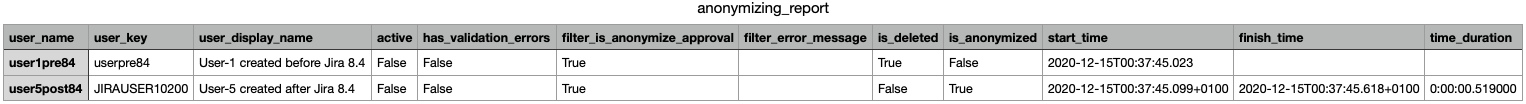
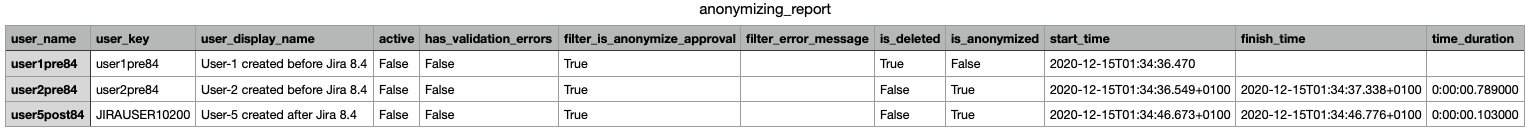
dev

diff --git a/doc/manual.md b/doc/manual.md
@@ -134,7 +134,7 @@ the filter had found any criteria not to anonymize a user, it would have given a
         "users": [
             {
                 "user_name": "user1pre84",
-                "user_key": "userpre84",
+                "user_key": "user1pre84",
                 "user_display_name": "User-1 created before Jira 8.4",
                 "active": false,
                 "has_validation_errors": false,
@@ -163,7 +163,7 @@ the filter had found any criteria not to anonymize a user, it would have given a
         ]
     }
 
-Furthermore the `anonymization_report.csv` has been created and looks like in the following
+Furthermore, the `anonymization_report.csv` has been created and looks like in the following
 screenshot:
 
 ![](images/manual/validation_succeeded_1.png)
@@ -215,7 +215,7 @@ The report is:
         "users": [
             {
                 "user_name": "user1pre84",
-                "user_key": "userpre84",
+                "user_key": "user1pre84",
                 "user_display_name": "User-1 created before Jira 8.4",
                 "active": true,
                 "has_validation_errors": false,
@@ -268,7 +268,7 @@ user1pre84:
 
 The step "Query user-data from Jira" queries the user's data from 
 `GET /rest/api/2/user?username=user1pre84`. It returns HTTP status-code `200 OK`, and in the 
-repsonse there is the attribute `"active": true`. Because the filter follows the rule only to 
+repsonse there is the attribute `"active": true`. Because the filter follows the rule to only  
 pass inactive users, it sets the `"filter_is_anonymize_approval": false`.
 
 user5post84:
@@ -277,7 +277,7 @@ The step "Query user-data from Jira" queries the user's data from
 `GET /rest/api/2/user?username=user5post84`. It returns HTTP status-code `404 Not Found`,
 and in the response there is the error-message 
 `"errorMessages": ["The user named 'user5post84' does not exist"]`.
-Because the filter follows the rule only to 
+Because the filter follows the rule to only 
 pass existent users, it sets the `"filter_is_anonymize_approval": false`.
 
 user-from-ad:
@@ -360,10 +360,12 @@ The config is:
 Further we use the infile `usernames.txt` with two users:
 
     user1pre84
+    user2pre84
     user5post84
 
-Both users are existent and inactive. User `user1pre84` is no reporter in any issue, nor
-is assigned to any user-field. User `user5post84` is assignee of 1 issue. 
+All users are existent and inactive. User `user1pre84` is no reporter in any issue, nor
+is assigned to any user-field. User `user2pre84` is assignee of issue EP-19,
+and `user5post84` is assignees of EP-22. 
 
 We call:
 
@@ -371,34 +373,59 @@ We call:
 
 The output is:
 
-    2020-12-15 00:37:44,647:INFO:get_user_names_from_infile(): Reading user-names from infile usernames.txt
-    2020-12-15 00:37:44,647:INFO:get_user_names_from_infile():   The user-names are: ['user1pre84', 'user5post84']
-    2020-12-15 00:37:44,647:INFO:get_users_data_from_rest(): Reading user-data from GET /rest/api/2/user
-    2020-12-15 00:37:44,726:INFO:get_validation_data_from_rest(): Reading validation-data (GET /rest/api/2/user/anonymization)
-    2020-12-15 00:37:44,840:INFO:filter_users(): Filtering users by existence and against validation result
-    2020-12-15 00:37:44,840:INFO:filter_users(): Remaining users to be anonymized: ['user1pre84', 'user5post84']
-    2020-12-15 00:37:44,840:INFO:is_any_anonymization_running(): ?
-    2020-12-15 00:37:44,840:INFO:get_anonymization_progress(): Checking if any anonymization is running
-    2020-12-15 00:37:44,875:INFO:is_any_anonymization_running(): No
-    2020-12-15 00:37:44,875:INFO:run_user_anonymizations(): Going to delete or anonymize 2 users (POST /rest/api/2/user/anonymization)
-    2020-12-15 00:37:44,875:INFO:run_user_anonymizations(): User (name/key) user1pre84/userpre84...
-    2020-12-15 00:37:45,023:INFO:run_user_anonymizations(): User (name/key) user5post84/JIRAUSER10200...
-    2020-12-15 00:37:55,130:INFO:wait_until_anonymization_has_finished(): for user user5post84
-    2020-12-15 00:37:55,173:INFO:main(): Report overview: {"number_of_users_in_infile": 2, "number_of_skipped_users": 0, "number_of_deleted_users": 1, "number_of_anonymized_users": 1}
+    2020-12-15 01:34:35,994:INFO:get_user_names_from_infile(): Reading user-names from infile usernames.txt
+    2020-12-15 01:34:35,994:INFO:get_user_names_from_infile():   The user-names are: ['user1pre84', 'user2pre84', 'user5post84']
+    2020-12-15 01:34:35,994:INFO:get_users_data_from_rest(): Reading user-data from GET /rest/api/2/user
+    2020-12-15 01:34:36,147:INFO:get_validation_data_from_rest(): Reading validation-data (GET /rest/api/2/user/anonymization)
+    2020-12-15 01:34:36,284:INFO:filter_users(): Filtering users by existence and against validation result
+    2020-12-15 01:34:36,284:INFO:filter_users(): Remaining users to be anonymized: ['user1pre84', 'user2pre84', 'user5post84']
+    2020-12-15 01:34:36,284:INFO:is_any_anonymization_running(): ?
+    2020-12-15 01:34:36,284:INFO:get_anonymization_progress(): Checking if any anonymization is running
+    2020-12-15 01:34:36,318:INFO:is_any_anonymization_running(): No
+    2020-12-15 01:34:36,318:INFO:run_user_anonymizations(): Going to delete or anonymize 3 users (POST /rest/api/2/user/anonymization)
+    2020-12-15 01:34:36,318:INFO:run_user_anonymizations(): User (name/key) user1pre84/user1pre84...
+    2020-12-15 01:34:36,470:INFO:run_user_anonymizations(): User (name/key) user2pre84/user2pre84...
+    2020-12-15 01:34:46,583:INFO:wait_until_anonymization_has_finished(): for user user2pre84
+    2020-12-15 01:34:46,616:INFO:run_user_anonymizations(): User (name/key) user5post84/JIRAUSER10200...
+    2020-12-15 01:34:56,675:INFO:wait_until_anonymization_has_finished(): for user user5post84
+    2020-12-15 01:34:56,712:INFO:main(): Report overview: {"number_of_users_in_infile": 3, "number_of_skipped_users": 0, "number_of_deleted_users": 1, "number_of_anonymized_users": 2}
+
+From the atlassian-jira.log:
+
+    2020-12-15 01:34:36,550+0100 JiraTaskExecutionThread-1 INFO admin 94x7399x1 6ugxn4 0:0:0:0:0:0:0:1 /rest/api/2/user/anonymization [c.a.j.user.anonymize.DefaultAnonymizeUserService] User key is not anonymized (user2pre84), should anonymize to (JIRAUSER10101)
+    2020-12-15 01:34:36,550+0100 JiraTaskExecutionThread-1 INFO admin 94x7399x1 6ugxn4 0:0:0:0:0:0:0:1 /rest/api/2/user/anonymization [c.a.j.user.anonymize.DefaultAnonymizeUserService] Username is not anonymized (user2pre84), should rename to (jirauser10101)
+    ...
+    2020-12-15 01:34:46,673+0100 JiraTaskExecutionThread-2 INFO admin 94x7402x1 zqqjfe 0:0:0:0:0:0:0:1 /rest/api/2/user/anonymization [c.a.j.user.anonymize.DefaultAnonymizeUserService] User key is already anonymized (JIRAUSER10200), no need to change it
+    2020-12-15 01:34:46,673+0100 JiraTaskExecutionThread-2 INFO admin 94x7402x1 zqqjfe 0:0:0:0:0:0:0:1 /rest/api/2/user/anonymization [c.a.j.user.anonymize.DefaultAnonymizeUserService] Username is not anonymized (user5post84), should rename to (jirauser10200)
+
+Note about `user2pre84`:
+
+The user-name as well as the user-key were anonymized:
+
+    User key is not anonymized (user2pre84), should anonymize to (JIRAUSER10101)
+    Username is not anonymized (user2pre84), should rename to (jirauser10101)
+
+Note about `user5post84`:
+
+Only the user-name was anonymized:
+
+    User key is already anonymized (JIRAUSER10200), no need to change it
+    Username is not anonymized (user5post84), should rename to (jirauser10200)
+
 
 The `anonymization_report.json` is:
 
     {
         "overview": {
-            "number_of_users_in_infile": 2,
+            "number_of_users_in_infile": 3,
             "number_of_skipped_users": 0,
             "number_of_deleted_users": 1,
-            "number_of_anonymized_users": 1
+            "number_of_anonymized_users": 2
         },
         "users": [
             {
                 "user_name": "user1pre84",
-                "user_key": "userpre84",
+                "user_key": "user1pre84",
                 "user_display_name": "User-1 created before Jira 8.4",
                 "active": false,
                 "has_validation_errors": false,
@@ -406,9 +433,23 @@ The `anonymization_report.json` is:
                 "filter_error_message": "",
                 "is_deleted": true,
                 "is_anonymized": false,
-                "start_time": "2020-12-15T00:37:45.023",
+                "start_time": "2020-12-15T01:34:36.470",
                 "finish_time": null,
                 "time_duration": null
+            },
+            {
+                "user_name": "user2pre84",
+                "user_key": "user2pre84",
+                "user_display_name": "User-2 created before Jira 8.4",
+                "active": false,
+                "has_validation_errors": false,
+                "filter_is_anonymize_approval": true,
+                "filter_error_message": "",
+                "is_deleted": false,
+                "is_anonymized": true,
+                "start_time": "2020-12-15T01:34:36.549+0100",
+                "finish_time": "2020-12-15T01:34:37.338+0100",
+                "time_duration": "0:00:00.789000"
             },
             {
                 "user_name": "user5post84",
@@ -420,19 +461,20 @@ The `anonymization_report.json` is:
                 "filter_error_message": "",
                 "is_deleted": false,
                 "is_anonymized": true,
-                "start_time": "2020-12-15T00:37:45.099+0100",
-                "finish_time": "2020-12-15T00:37:45.618+0100",
-                "time_duration": "0:00:00.519000"
+                "start_time": "2020-12-15T01:34:46.673+0100",
+                "finish_time": "2020-12-15T01:34:46.776+0100",
+                "time_duration": "0:00:00.103000"
             }
         ]
     }
 
-Furthermore the `anonymization_report.csv` has been created and looks like in the following
+Furthermore, the `anonymization_report.csv` has been created and looks like in the following
 screenshot:
 
 ![](images/manual/anonymization_succeeded_1.png)
 
-As the result, the anonymizer has deleted `user1pre84` and anonymized `user5post84`.
+As the result, the anonymizer has deleted `user1pre84` and anonymized 
+`user2pre84` and `user5post84`.
 
 Let's discuss what the filter has been read from `anonymization_report_details.json` for 
 the users to assess the result of `filter_is_anonymize_approval` and what finally happened to 
@@ -443,22 +485,32 @@ user1pre84:
 The step "Query user-data from Jira" queries the user's data from 
 `GET /rest/api/2/user?username=user1pre84`. It returns HTTP status-code `200 OK`, and in the 
 repsonse there is the attribute `"active": false`.
-The validations returned to error.
-Because the filter follows the rule only to pass existent, inactive users with no 
+The validations returned no error.
+Because the filter follows the rule to only pass existent, inactive users with no 
 validation errors, it sets the `"filter_is_anonymize_approval": true`.
 
 In the config the `"is_try_delete_user": true` is set. This lets the anonymizer _try_ to
 delete the user alternatively to anonymize it. The thought behind deletion is:
-Jira does only allow deleting a user, if it is in any user-field or is a comment-author.
+Jira does only allow deleting a user, if it is not in any user-field nor a comment-author.
 Why shall we keep and anonymize a user which never had left any traces in Jira?
 If the anonymizer fails deleting, it proceeds with anonymization.
 
-user5post84:
+user2pre84, user5post84:
 
-Similar this user, but it is an assignee in 1 issue. The fact this user is an assignee 
-is no validation error as this will not prevent the anonymization. But deletion failed,
-so it was anonymized.
+Similar the previous user, but they are assignees in 1 issue each.
+The fact this user is an assignee is no validation error as this will not prevent the 
+anonymization. But deletion failed, so they were anonymized.
 
+`user2pre84` was assignee of issue EP-19, and `user5post84` was assignees of EP-22.
+We can reverse check what are the user-names/-keys/-display-names now after the
+anonymization:
+- EP-19 has assignee (former `user2pre84`): User-name `jirauser10101`, key `JIRAUSER10101`, 
+  and display-name `user-438f1`.
+- EP-22 has assignee (former `user5post84`): User-name `jirauser10200`, key `JIRAUSER10200`,
+  and display-name `user-0efc5`.  
+
+`user2pre84` had the user-key `user2pre84`, which was anonymized.
+`user5post84` had the user-key `JIRAUSER10200`, which was being kept as-is.
 
 ## Anonymize Users And Report The Anonymized User-Data
 
@@ -470,4 +522,26 @@ Needs the feature "do_report_anonymized_user_data".
 
 ## Feature "do_report_anonymized_user_data"
 
-TODO
+The anonymization described above changes a user-name to the format "username12345"
+and the display-name to the format "user-a2b4e". If a user was created in 
+Jira-version <8.4, the user-key mostly is equal to the user-name. In this case,
+the anonymization changes also the user-key to the format "JIRAUSER12345". 
+Users created in Jira >= 8.4 already have a user-key of this format. We can see, 
+the ID is the base to form the user-name and -key.
+
+During anonymization, the Jira REST-API do not provide any information about the 
+new user-name, user-key, display-name, nor the ID ("12345").
+
+If you have to record a mapping from the un-anonymized user to the anonymized user
+e. g. for legal department, this is not possible out of the box.
+
+This feature
+- reads the user-ID which is the base for the anonymized user-name and -key,
+   from `GET /rest/anonhelper/latest/applicationuser` before anonymization,
+- predicts the new user-name,
+- query the anonymized user by the predicted user-name after anonymization,
+- records the anonymized user-name, -key, and display-name in addition.
+
+This feature calls the REST `GET /rest/anonhelper/latest/applicationuser` 
+from the add-on TODO.
+
